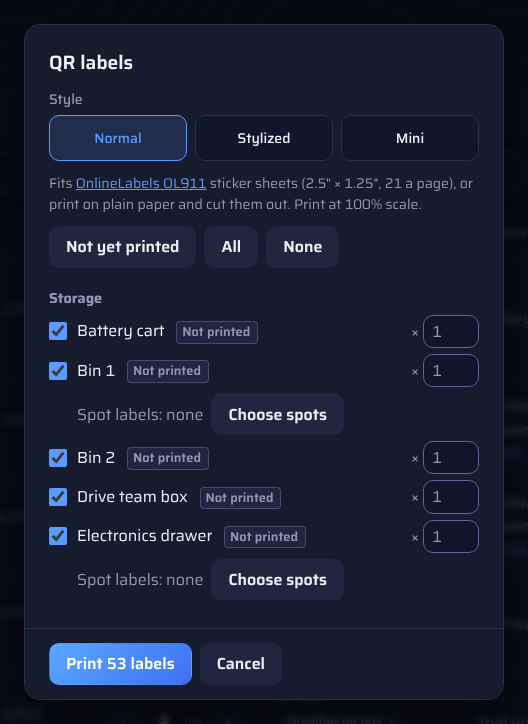
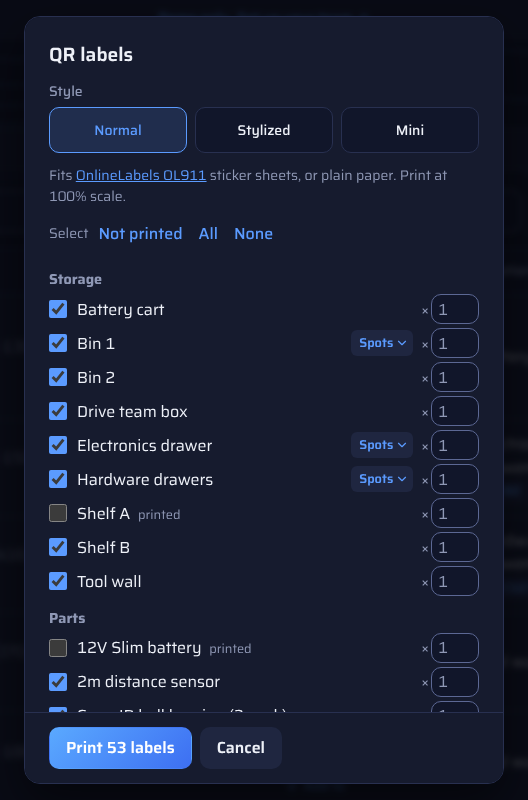
Simpler QR labels dialog: quiet printed marks, Spots chip beside grid locations, select links, one scroll

diff --git a/src/main.js b/src/main.js
@@ -2017,25 +2017,22 @@ function openLabelsDialog() {
   const bins = labels.length - rows.length;
   const style = localStorage.getItem(LABEL_STYLE_KEY) ?? 'normal';
   // Each label prints once unless its copies are changed.
-  const item = (label, i) => `<li class="label-row"><label>
-    <input type="checkbox" data-index="${i}" ${state.printed.has(label.key) ? '' : 'checked'} />
-    <span>${esc(label.title)} ${state.printed.has(label.key) ? '' : '<span class="badge">Not printed</span>'}</span>
-  </label><span class="copies">×<input type="number" data-copies="${i}" min="1" max="${MAX_COPIES}" step="1" required value="1" aria-label="Copies of ${esc(label.title)}" /></span></li>`;
-  // Under a grid location's label, its spots can be picked on the grid to print a label for each of them too.
+  // A grid location's row has a Spots button that opens its grid, to print a label for each picked spot too.
   const chosen = new Map(locations.filter(gridLocation).map((name) => [name, new Set()]));
-  const spotsItem = (name) => (chosen.has(name) ? `<li class="spot-labels" data-spots-of="${esc(name)}">
+  const spotsButton = (name) => (chosen.has(name)
+    ? `<button type="button" class="spots" data-choose="${esc(name)}" aria-expanded="false" aria-label="Spot labels of ${esc(name)}"><span class="spot-count">Spots</span>${ICON_CHEVRON}</button>` : '');
+  const spotsItem = (name) => (chosen.has(name) ? `<li class="spot-picker" data-spots-of="${esc(name)}" hidden>
       <div class="row">
-        <span class="muted">Spot labels: <span class="spot-count">none</span></span>
-        <button type="button" class="secondary" data-choose aria-expanded="false">Choose spots</button>
+        <button type="button" class="link" data-pick="all">All spots</button>
+        <button type="button" class="link" data-pick="none">None</button>
       </div>
-      <div class="spot-picker" hidden>
-        <div class="row">
-          <button type="button" class="secondary" data-pick="all">All spots</button>
-          <button type="button" class="secondary" data-pick="none">No spots</button>
-        </div>
-        <div class="grid-box">${gridHtml(gridLocation(name), '')}</div>
-      </div>
+      <div class="grid-box">${gridHtml(gridLocation(name), '')}</div>
     </li>` : '');
+  // Each label prints once unless its copies are changed. Printed ones are marked quietly; the rest start picked.
+  const item = (label, i, name) => `<li class="label-row"><label>
+    <input type="checkbox" data-index="${i}" ${state.printed.has(label.key) ? '' : 'checked'} />
+    <span>${esc(label.title)}${state.printed.has(label.key) ? ' <span class="printed">printed</span>' : ''}</span>
+  </label>${name ? spotsButton(name) : ''}<span class="copies">×<input type="number" data-copies="${i}" min="1" max="${MAX_COPIES}" step="1" required value="1" aria-label="Copies of ${esc(label.title)}" /></span></li>`;
   dialog.innerHTML = `
     <form method="dialog" class="card">
       <h2>QR labels</h2>
@@ -2045,13 +2042,14 @@ function openLabelsDialog() {
           `<label><input type="radio" name="style" value="${value}" ${value === style ? 'checked' : ''} />${name}</label>`).join('')}
       </fieldset>
       <p class="muted small label-style-note"></p>
-      <div class="row">
-        <button type="button" class="secondary" data-select="new">Not yet printed</button>
-        <button type="button" class="secondary" data-select="all">All</button>
-        <button type="button" class="secondary" data-select="none">None</button>
+      <div class="row label-select">
+        <span class="muted small">Select</span>
+        <button type="button" class="link" data-select="new">Not printed</button>
+        <button type="button" class="link" data-select="all">All</button>
+        <button type="button" class="link" data-select="none">None</button>
       </div>
       <ul class="label-list">
-        ${bins ? '<li><h3>Storage</h3></li>' : ''}${labels.slice(0, bins).map((l, i) => item(l, i) + spotsItem(locations[i])).join('')}
+        ${bins ? '<li><h3>Storage</h3></li>' : ''}${labels.slice(0, bins).map((l, i) => item(l, i, locations[i]) + spotsItem(locations[i])).join('')}
         ${rows.length ? '<li><h3>Parts</h3></li>' : ''}${labels.slice(bins).map((l, i) => item(l, bins + i)).join('')}
       </ul>
       <div class="row">
@@ -2067,9 +2065,10 @@ function openLabelsDialog() {
     ...[...chosen].flatMap(([name, spots]) => spotLabels(name).filter((l) => spots.has(l.title))),
   ];
   const renderSpots = (item) => {
-    const spots = chosen.get(item.dataset.spotsOf);
+    const name = item.dataset.spotsOf;
+    const spots = chosen.get(name);
     item.querySelectorAll('[data-spot]').forEach((b) => b.setAttribute('aria-pressed', spots.has(b.dataset.spot)));
-    item.querySelector('.spot-count').textContent = spots.size ? `${spots.size} chosen` : 'none';
+    dialog.querySelector(`[data-choose="${CSS.escape(name)}"] .spot-count`).textContent = spots.size ? count(spots.size, 'spot') : 'Spots';
   };
   const printButton = dialog.querySelector('#print');
   const update = () => {
@@ -2081,8 +2080,8 @@ function openLabelsDialog() {
   const renderStyle = () => {
     const sheet = `<a href="${LABEL_SHEET_URL}" target="_blank" rel="noopener">OnlineLabels OL911</a>`;
     dialog.querySelector('.label-style-note').innerHTML = dialog.querySelector('[name="style"]:checked').value === 'mini'
-      ? '0.6" codes to cut out and stick on parts. Print at 100% scale.'
-      : `Fits ${sheet} sticker sheets (2.5" × 1.25", 21 a page), or print on plain paper and cut them out. Print at 100% scale.`;
+      ? '0.6" codes to cut out. Print at 100% scale.'
+      : `Fits ${sheet} sticker sheets, or plain paper. Print at 100% scale.`;
   };
   dialog.querySelector('.label-styles').onchange = (e) => {
     localStorage.setItem(LABEL_STYLE_KEY, e.target.value);
@@ -2097,18 +2096,18 @@ function openLabelsDialog() {
     update();
   };
   dialog.querySelector('.label-list').onclick = (e) => {
+    const choose = e.target.closest('[data-choose]');
+    if (choose) {
+      const picker = dialog.querySelector(`[data-spots-of="${CSS.escape(choose.dataset.choose)}"]`);
+      picker.hidden = !picker.hidden;
+      choose.setAttribute('aria-expanded', !picker.hidden);
+      return;
+    }
     const item = e.target.closest('[data-spots-of]');
     if (!item) return;
     const spots = chosen.get(item.dataset.spotsOf);
-    const choose = e.target.closest('[data-choose]');
     const spot = e.target.closest('[data-spot]')?.dataset.spot;
     const pick = e.target.closest('[data-pick]')?.dataset.pick;
-    if (choose) {
-      const picker = item.querySelector('.spot-picker');
-      picker.hidden = !picker.hidden;
-      choose.setAttribute('aria-expanded', !picker.hidden);
-      choose.textContent = picker.hidden ? 'Choose spots' : 'Hide grid';
-    }
     if (spot && !spots.delete(spot)) spots.add(spot);
     if (pick === 'none') spots.clear();
     if (pick === 'all') item.querySelectorAll('[data-spot]').forEach((b) => spots.add(b.dataset.spot));

diff --git a/src/style.css b/src/style.css
@@ -714,18 +714,28 @@ input[name="name"]:read-only { color: var(--muted); }
 .order-fields input[name="quantity"] { width: 80px; }
 .order-fields :is(input:not([name="quantity"]), select) { flex: 1 1 120px; width: auto; }
 #build-form .new-part[hidden] { display: none; }
-.label-list { list-style: none; margin: 0 0 12px; padding: 0; display: flex; flex-direction: column; gap: 6px; max-height: 40vh; overflow: auto; }
+/* The whole dialog scrolls, so the list isn't a small scroll box of its own. */
+.label-list { list-style: none; margin: 0 0 12px; padding: 0; display: flex; flex-direction: column; gap: 4px; }
 .label-list label { flex-direction: row; align-items: center; gap: 10px; color: var(--text); font-weight: 400; font-size: 1rem; overflow-wrap: anywhere; }
 label.check { flex-direction: row; align-items: center; gap: 10px; font-weight: 400; }
 label.check input { width: 18px; min-height: 18px; margin: 0; accent-color: var(--accent); }
 .label-list input { width: 18px; min-height: 18px; margin: 0; accent-color: var(--accent); }
-.label-list .label-row { display: flex; align-items: center; justify-content: space-between; gap: 8px; }
-.label-list .copies { display: flex; flex: none; align-items: center; gap: 4px; color: var(--muted); }
-.label-list .copies input { width: 3.5em; min-height: 32px; padding: 4px 8px; }
+.label-list .label-row { display: flex; align-items: center; gap: 8px; }
+.label-list .label-row label { flex: 1; }
+.label-list .printed { margin-left: 4px; color: var(--muted); font-size: 0.8rem; }
+.label-list .copies { display: flex; flex: none; align-items: center; gap: 2px; color: var(--muted); }
+.label-list .copies input { width: 3em; min-height: 30px; padding: 2px 6px; }
 .label-list h3 { margin: 8px 0 0; font-size: 0.9rem; color: var(--muted); }
-.label-list .spot-labels { display: flex; flex-direction: column; gap: 8px; padding-left: 28px; }
-.spot-picker { display: flex; flex-direction: column; gap: 8px; }
+.label-select { gap: 4px; }
+.label-select button.link { padding: 4px 6px; }
+/* Spots: like Find part's chip, opening the location's grid under its row. */
+button.spots { display: inline-flex; align-items: center; gap: 2px; flex: none; min-height: 26px; padding: 1px 4px 1px 8px; border: none; border-radius: 6px; background: var(--raised); color: var(--accent); font-size: 0.8rem; font-weight: 600; }
+button.spots:hover { background: var(--raised-hover); }
+button.spots svg { width: 14px; height: 14px; transition: transform 0.15s; }
+button.spots[aria-expanded="true"] svg { transform: rotate(180deg); }
+.spot-picker { display: flex; flex-direction: column; gap: 4px; padding: 0 0 8px 28px; }
 .spot-picker[hidden] { display: none; }
+.spot-picker button.link { padding: 4px 6px; }
 /* Import: each column of the spreadsheet, with its first value under its name, beside the part detail it holds. */
 .import-columns { display: flex; flex-direction: column; gap: 8px; }
 .import-columns label { flex-direction: row; align-items: center; gap: 12px; color: var(--text); }

diff --git a/docs/HOW-TO.md b/docs/HOW-TO.md
@@ -148,7 +148,7 @@ Print at 100% scale (Actual size), not Fit to page, or the labels won't line up 
 
 The app remembers which labels are printed, so only new ones are checked. The list follows your filters, so filter to one location to print just its labels. A part's dialog has **Print label** for one. To print more than one of a label, change the **×** number beside it, or type how many after **Print label**.
 
-A grid's label opens the whole grid. To print labels for its drawers too, tap **Choose spots** under it and tap the spots you want, or **All spots**. Scanning one shows that spot and what's in it.
+A grid's label opens the whole grid. To print labels for its drawers too, tap **Spots** beside it and tap the spots you want, or **All spots**. Scanning one shows that spot and what's in it.
 
 <img src="how-to/labels.png" alt="The QR labels dialog" width="440">
 
